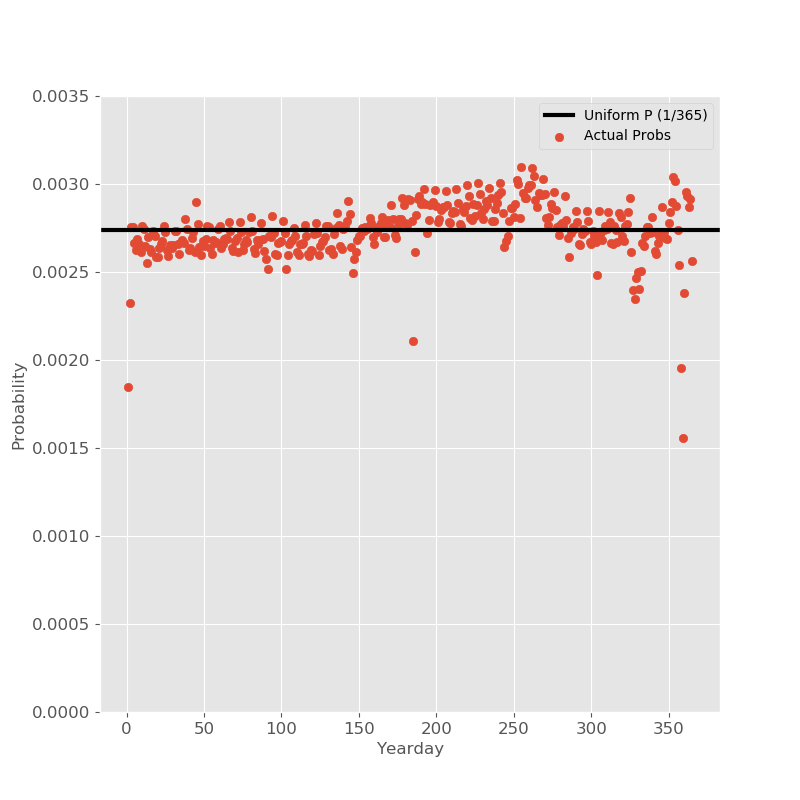
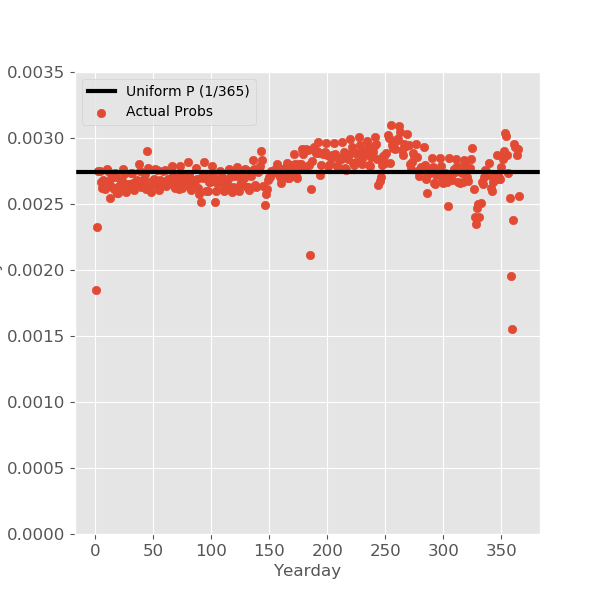
Update README, script, images

diff --git a/src/birthday_puzzle.py b/src/birthday_puzzle.py
@@ -2,7 +2,6 @@
 
 import pandas as pd
 import numpy as np
-np.set_printoptions(suppress=True)
 import matplotlib.pyplot as plt
 from collections import Counter
 import seaborn as sns
@@ -23,7 +22,7 @@ def prob_shared_birthday(N_in_room, N_simulations=5000, probs=None):
     N_in_room (integer) : Number of People in room
     N_simulations (integer)(optional) : Number of Simulations to run (default = 5000)
     probs (numpy array)(optional): Array of probabilities for each yday (1-365). 
-        Defaults to uniform probability distribution
+        Defaults to 'None' (uniform probability distribution)
     
     RETURNS
     (p_gte2, p_gte3) (tuple of floats) : Probabilites of >=2, >=3 people sharing birthdays
@@ -40,33 +39,35 @@ def prob_shared_birthday(N_in_room, N_simulations=5000, probs=None):
     p_gte3 = np.mean(np.array(n_gte3)>0)
     return (p_gte2, p_gte3)
 
+plt_size = (6,6)
 
 if __name__=='__main__':
+
+
+    N_sims = 5000
 
     p2=[]
     p3=[]
     for N_in_room in range(1,100):
-        p_gte2, p_gte3 = prob_shared_birthday(N_in_room)
+        p_gte2, p_gte3 = prob_shared_birthday(N_in_room, N_simulations=N_sims)
         p2.append(p_gte2)
         p3.append(p_gte3)
     
-    fig, ax = plt.subplots(1, figsize=(8,8))
+    fig, ax = plt.subplots(1, figsize=plt_size)
     ax.plot(list(range(1,100)), p2, linewidth=3)
     ax.set_xlabel('# People in Room')
     ax.set_ylabel('Probability')
-    ax.set_title('Probability At Least 2 People Share Birthday')
+    ax.set_title('Prob. >=2 People Share Birthday (' + str(N_sims) + ' Simulations)')
     plt.savefig('./images/p_gte2_vs_N_uniform.png')
 
-    fig, ax = plt.subplots(1, figsize=(8,8))
+    fig, ax = plt.subplots(1, figsize=plt_size)
     ax.plot(list(range(1,100)), p2, linewidth=3, label='>=2')
     ax.plot(list(range(1,100)), p3, linewidth=3, label='>=3')
     ax.set_xlabel('# People in Room')
     ax.set_ylabel('Probability')
     ax.legend()
-    ax.set_title('Probability At Least N People Share Birthday')
+    ax.set_title('Prob >=N People Share Birthday (' + str(N_sims) + ' Simulations)')
     plt.savefig('./images/p_gte2_gte3_vs_N_uniform.png')
-
-
     
 
     df_births = pd.read_csv('./data/US_births_2000-2014_SSA.csv')
@@ -75,10 +76,10 @@ if __name__=='__main__':
     df_births['date'] = pd.to_datetime(df_births[['year', 'month', 'day']])
     df_births['leap_year'] = df_births['date'].dt.is_leap_year
     df_births['yearday'] = df_births['date'].dt.dayofyear
-    # drop leap years
     df_births = df_births[df_births['leap_year']==False]
     df_births.drop('leap_year', axis=1, inplace=True)
     
+    # Make heatmap of total births by month and day
     df2 = df_births.groupby(['month','day']).sum().reset_index()
     fig,ax = plt.subplots(1, figsize=(14,8))
     sns.heatmap(df2.pivot('month','day','births'), ax=ax)
@@ -88,13 +89,15 @@ if __name__=='__main__':
     ax.set_title('Number of Births Vs. Month and Day')
     plt.savefig('images/births_heatmap.png')
 
+    # calculate probability of being born each day from data
     total_births = df_births['births'].sum()
     df_births.drop(['year', 'month', 'day'], axis=1, inplace=True)
     df_gb_yday = df_births.groupby('yearday').sum().reset_index()
     df_gb_yday['birth_prob'] = df_gb_yday['births']/total_births
     df_gb_yday
 
-    fig, ax = plt.subplots(1, figsize=(8,8))
+    # Plot probabilities vs yearday
+    fig, ax = plt.subplots(1, figsize=plt_size)
     ax.scatter(df_gb_yday['yearday'], df_gb_yday['birth_prob'], label='Actual Probs')
     ax.set_ylim(0,0.0035)
     ax.axhline(1/365, color='black', label='Uniform P (1/365)')
@@ -102,3 +105,48 @@ if __name__=='__main__':
     ax.set_ylabel('Probability')
     ax.legend()
     plt.savefig('images/birth_prob_vs_yday.png')
+
+    # Run simulations w/ uniform distribution and actual probs
+    p1=[]
+    for N_in_room in range(1,100):
+        p_gte2, p_gte3 = prob_shared_birthday(N_in_room, N_simulations=N_sims, probs=None)
+        p1.append(p_gte2)
+
+    p2=[]
+    for N_in_room in range(1,100):
+        p_gte2, p_gte3 = prob_shared_birthday(N_in_room, N_simulations=N_sims, probs = df_gb_yday['birth_prob'].values)
+        p2.append(p_gte2)
+
+    fig, ax = plt.subplots(1, figsize=plt_size)
+    ax.plot(list(range(1,100)), p1, linewidth=3, label='Uniform Dist.')
+    ax.plot(list(range(1,100)), p2, linewidth=3, label='W/ Probs')
+    ax.set_xlabel('# People in Room')
+    ax.set_ylabel('Probability')
+    ax.legend()
+    ax.set_title('Prob >=2 People Share Birthday (' + str(N_sims) + ' Simulations)')
+    plt.savefig('images/p_gte2_vs_N_uniform_actual.png')
+
+    ydays = np.arange(1,366)
+    test_probs = np.sin(ydays/120)
+    test_probs = test_probs/np.sum(test_probs)
+
+    fig, ax = plt.subplots(1, figsize=plt_size)
+    ax.plot(ydays,test_probs)
+    ax.set_xlabel('Yearday')
+    ax.set_ylabel('Probability')
+    ax.set_title('Fake Probability Distribution')
+    plt.savefig('images/fake_birth_prob_vs_yday.png')
+
+    p3=[]
+    for N_in_room in range(1,100):
+        p_gte2, p_gte3 = prob_shared_birthday(N_in_room, N_simulations=N_sims, probs = test_probs)
+        p3.append(p_gte2)
+
+    fig, ax = plt.subplots(1, figsize=plt_size)
+    ax.plot(list(range(1,100)), p1, linewidth=3, label='Uniform Dist.')
+    ax.plot(list(range(1,100)), p3, linewidth=3, label='W/ Fake Probs')
+    ax.set_xlabel('# People in Room')
+    ax.set_ylabel('Probability')
+    ax.legend()
+    ax.set_title('Prob >=2 People Share Birthday (' + str(N_sims) + ' Simulations)')
+    plt.savefig('images/p_gte2_vs_N_uniform_fakeprobs.png')

diff --git a/README.md b/README.md
@@ -13,22 +13,43 @@ I'll first use a simulation-based approach in python to solve the traditional pr
 - Repeat this sampling process many times, then calculate the percent of times we get at least one duplicate; this is interpreted as the probability of getting at least one match for that room size.
 - Repeat the above process for different *N_in_room* values, and plot the probabilities versus *N_in_room*.
 
-
+The results look similar to previous solutions, with the probability reaching 50% at a room size of 23 people:
 ![](images/p_gte2_vs_N_uniform.png)
+
+We can also easily ask other variants of the question, like "What is the probability that 3 or more people in the room share a birthday?" The probability of at least 3 people sharing a birthday reaches ~50% at a room size of 88 people:
 
 ![](images/p_gte2_gte3_vs_N_uniform.png)
 
 
 ## Solution Using Actual Probabilities of Birth Days
 
-In the above solution, we assumed that all birthdays were equally likely; but this is not the case in real life. A friend recently shared an interesting [visualization of birthdays](http://www.vizwiz.com/2012/05/how-common-is-your-birthday-find-out.html), which reminded me of the Birthday Puzzle and made me wonder how the results would change if we used the actual birthday probabilities (instead of assuming a uniform distribution). 
+In the above solution, we assumed that all birthdays were equally likely; but this is not the case in real life. A friend recently shared an interesting [visualization of most common birthdays](http://www.vizwiz.com/2012/05/how-common-is-your-birthday-find-out.html), which reminded me of the Birthday Puzzle and made me wonder how the results would change if we used the actual birthday probabilities (instead of assuming a uniform distribution). 
 
-The approach to solving the problem is the same as before, _except_ we assign a probability based on birth data to each day, instead of assuming a uniform distribution.
+The approach to solving the problem is the same as before, _except_ we assign a probability based on birth data to each day, instead of assuming a uniform distribution. I used [data on US births from 2000-2014 compiled by FiveThirtyEight](https://github.com/fivethirtyeight/data/tree/master/births), which I learned of from this [blog post](http://thedailyviz.com/2016/09/17/how-common-is-your-birthday-dailyviz/). 
 
-- http://thedailyviz.com/2016/09/17/how-common-is-your-birthday-dailyviz/
-- https://github.com/fivethirtyeight/data/tree/master/births
+First I summed births by month and day and visualized the results with a heatmap, producing a plot similar to those in the two blog posts mentioned above. The main takeaways are:
+- There is a seasonal pattern: there tend to be more births in September +/- a month. You can do the math and see what that infers about when babies are _conceived_.
+- There tend to be many less births on or close to major holidays (Thanksgiving, Christmas, New Year's, July 4th). I'm not sure if this is more due to people not wanting to give birth on holidays, or doctors not wanting to work/not available on holidays. But I thought it was interesting that it implies that in a large percentage of pregnancies, there is some leeway/choice (at least a day or two) of when exactly to give birth.
+
+![](images/births_heatmap.png)
 
 
-![](images/births_heatmap.png)*Caption*
+Next, to calculate the probability of being born for each day I:
 
-![](images/birth_prob_vs_yday.png)*Caption*
+- Kept only data from non-leap years
+- Turned dates into yeardays (1-365) and summed births over each yearday
+- Divided those values by the total number of births over all days to calculate probabilities, which sum to 1. 
+
+These probabilities are shown in the following figure, as well as the uniform probability (1/365) indicated by the horizontal line. Although the true probabilities are definitely not uniform, the difference in magnitude isn't that large.
+
+![](images/birth_prob_vs_yday.png)
+
+Intuitively, I expected that using the actual probabilities would increase the probability. However, running the simulation again using the actual probabilities, I found that the results really weren't affected significantly. 
+
+![](images/p_gte2_vs_N_uniform_actual.png)
+
+To test whether my intuition (and/or code) was correct, I created a fake probability distribution with a similar but more drastic seasonal peak and ran the simulations again. This time the curve is indeed shifted to the left, meaning the probability of 2 people sharing a birthday for a given room size is increased (though still not by that much).
+
+![](images/fake_birth_prob_vs_yday.png)
+
+![](images/p_gte2_vs_N_uniform_fakeprobs.png)
